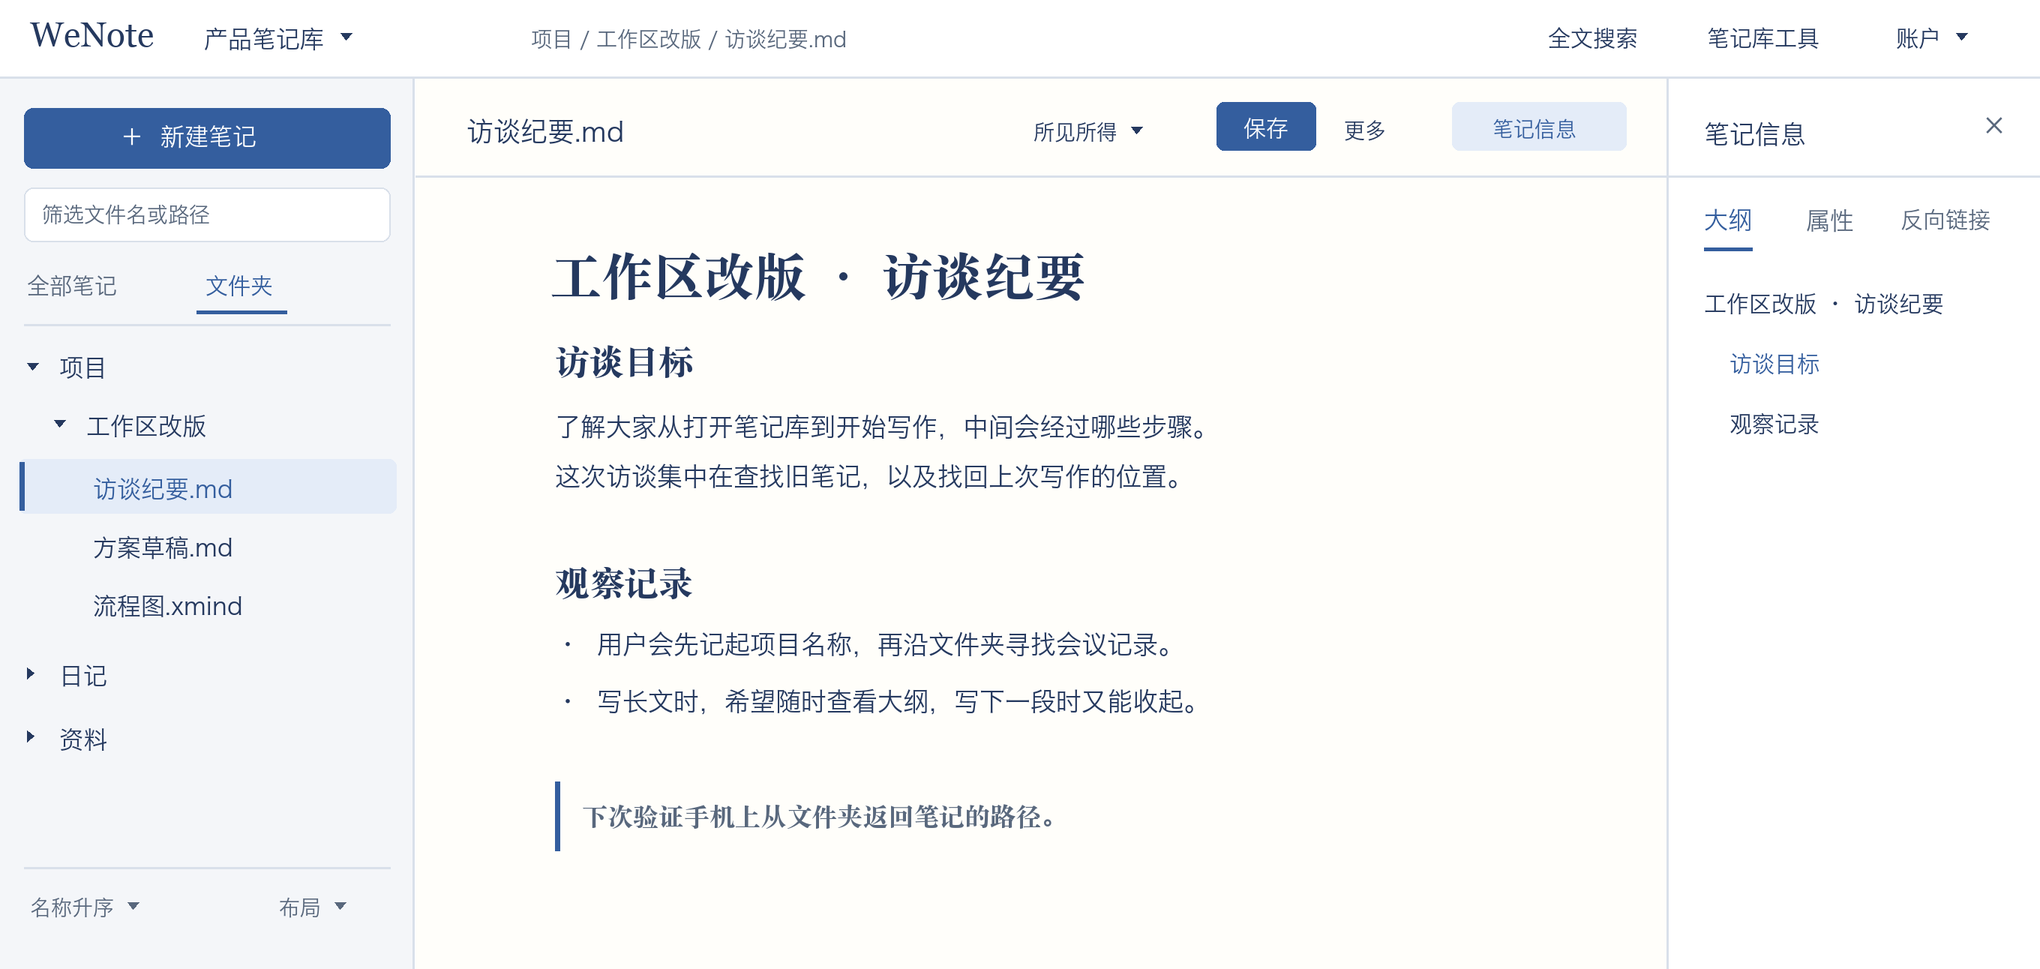
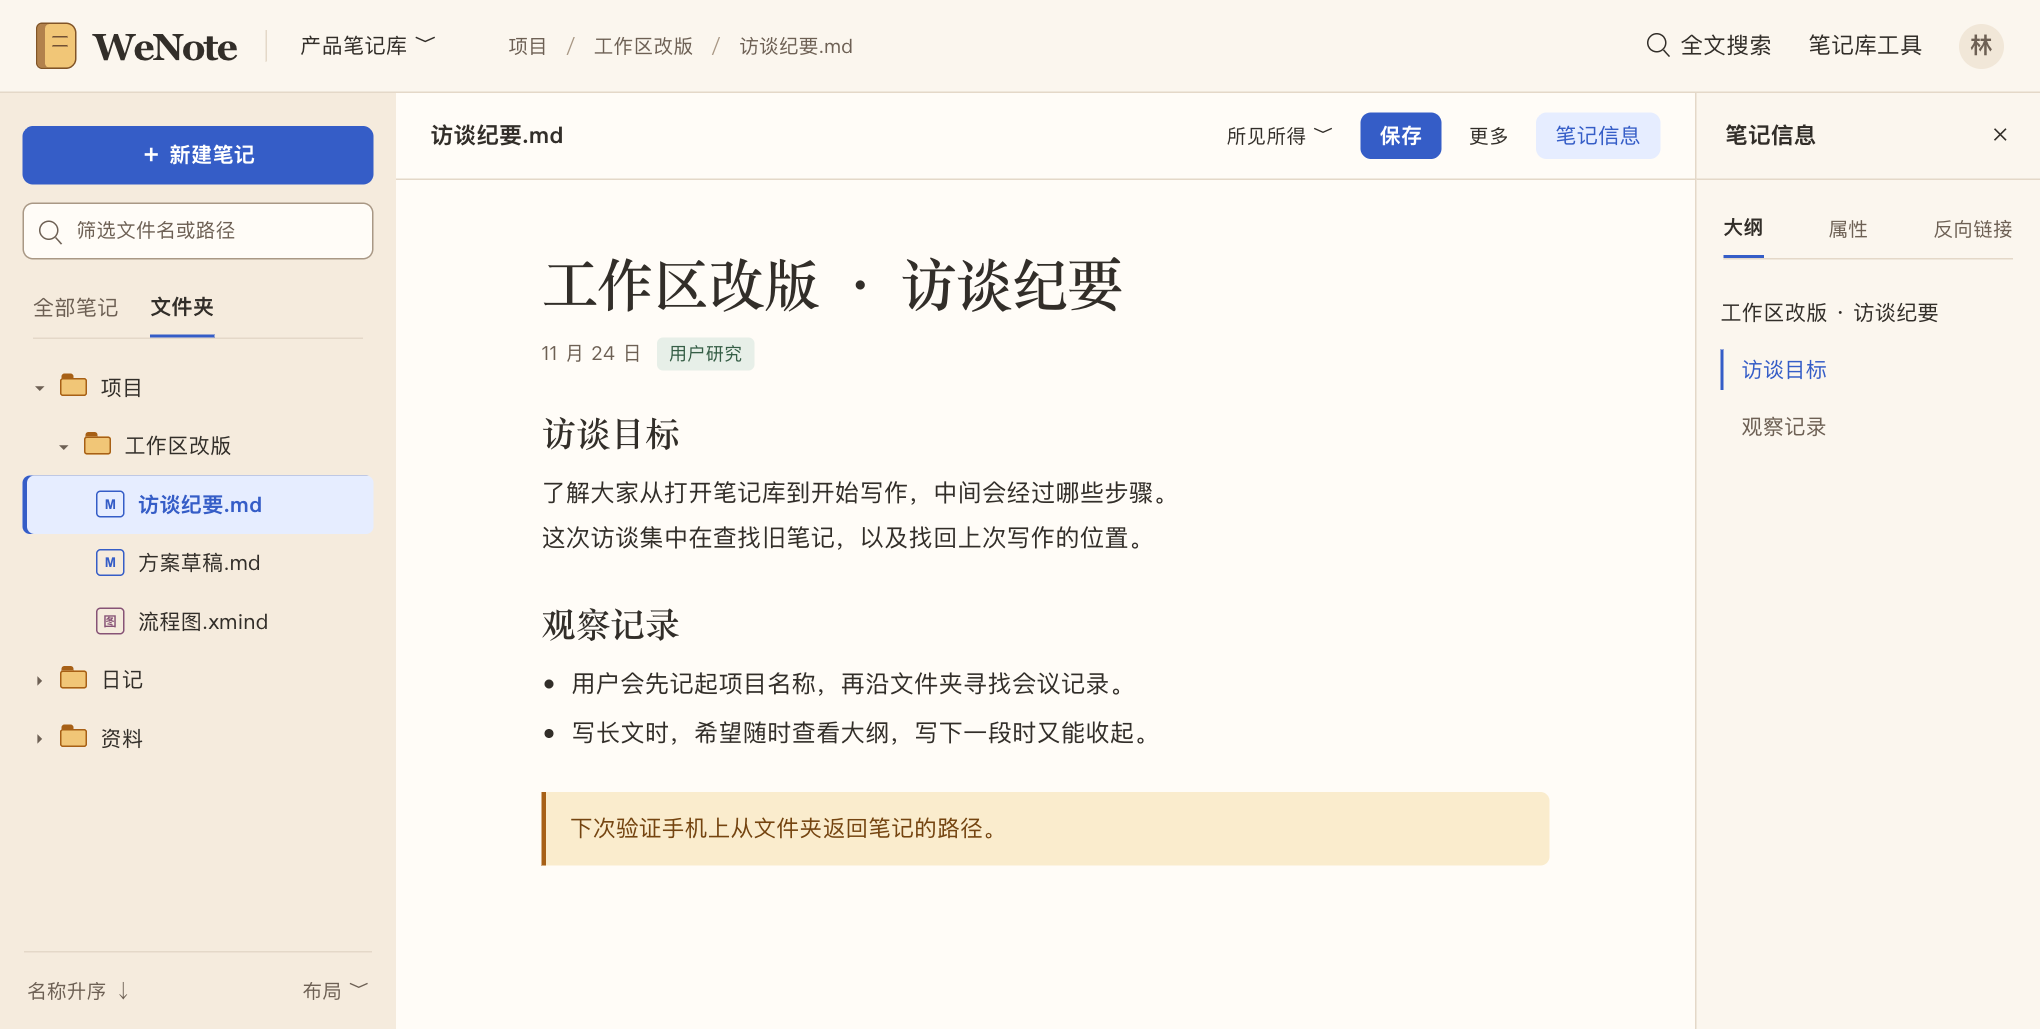
docs: warm the note workspace palette and illustrate night mode

diff --git a/docs/笔记工作区设计.md b/docs/笔记工作区设计.md
@@ -4,7 +4,7 @@
 
 建议桌面默认显示**文件导航和当前笔记**。找文件时，左侧可在「全部笔记」与「文件夹」之间切换。写长文时，点「笔记信息」查看大纲、属性或反向链接。手机每次显示一个主要任务，用户从列表打开正文，返回时回到刚才选中的那一行。
 
-本稿以本地 `main` 的 `722fae3` 为现状基线。两张图展示拟议界面，图中文字为示例笔记。默认布局、断点和面板尺寸是本轮评审建议值。
+本稿以本地 `main` 的 `722fae3` 为现状基线。三张图展示本轮拟议的日间、手机和夜间界面，图中文字为示例笔记。默认布局、断点和面板尺寸是本轮评审建议值。
 
 ## 1. 桌面上写一篇笔记
 
@@ -86,7 +86,30 @@
 
 ## 6. 视觉、键盘与触屏
 
-沿用 WeNote 已有的墨蓝、暖白纸面、冷灰侧栏和正文衬线字体。主界面沿用系统无衬线，源码区使用等宽字体。文件行选中时同时显示底色和边缘标记，键盘焦点用独立描边。夜间模式同时作用于壳层、CodeMirror、Markdown 预览、Mermaid 和 XMind，用同一篇含公式和图表的笔记检查切换效果。
+### 写作区的暖色主题
+
+有道云笔记 Mac 版的官方展示图把蓝色「新建」按钮放在文件列表上方，并用浅蓝色标出当前文件。展开菜单时，正文仍有独立的浅色背景。WeNote 借用这种区分动作、位置和内容的方式。针对初稿偏冷的问题，我们把占屏面积最大的颜色改为暖白和暖杏，给文件夹加上琥珀色轮廓。以下色值是 WeNote 的设计选择。[有道云笔记官方展示图（Mac App Store）](https://apps.apple.com/cn/app/id1600668116)
+
+| 用途 | 日间 | 夜间 | 放在界面哪里 |
+| --- | --- | --- | --- |
+| 纸面与正文 | 暖白 `#FFFCF7`、炭黑 `#322E29` | 深褐 `#25211E`、米白 `#F3EAE1` | 正文保持整片纸面。中文标题用宋体，界面标签用系统无衬线，源码用等宽字体 |
+| 文件导航与工具面板 | 暖杏 `#F5EBDD`、浅米 `#FBF6EE` | 棕灰 `#302A25`、深棕 `#2B2622` | 左栏颜色略重，右侧大纲、手机顶栏和底部面板用较轻的表面色 |
+| 次要文字与分隔线 | `#6D6054`、`#E4D8C8` | `#C5B5A5`、`#4B4037` | 路径、日期、排序说明使用次要文字，分隔线用于组织区域 |
+| 主操作与按钮文字 | 蓝 `#355DC7`、白 `#FFFFFF` | 浅蓝 `#A8C0FF`、深蓝黑 `#182443` | 新建、可用的保存按钮。手机正文里「完成」只用蓝色文字 |
+| 当前选中项 | 淡蓝底 `#E6EDFF`、蓝字 `#355DC7` | 靛灰底 `#313C58`、浅蓝字 `#A8C0FF` | 当前文件同时使用底色、左侧短线和字重。大纲仅标记当前标题 |
+| 文件夹、引用与标签 | 文件夹边 `#A76016`，引文底 `#FAECCD`、字 `#744410`，标签底 `#E7EFE8`、字 `#365E46` | 文件夹边 `#EDB86B`，引文底 `#433421`、字 `#F1C98C`，标签底 `#263F33`、字 `#B0D5BC` | 色彩集中于小图标、真实的 Markdown 引用和已有标签。空白笔记只显示标题与正文输入区 |
+
+![同一篇访谈纪要的夜间主题，深褐正文、棕灰侧栏和浅蓝色操作按钮。](assets/mantine-workspace/desktop-dark.png)
+
+*图 3 · 与图 1 的笔记和布局相同。夜间保留文件夹的琥珀色，用浅蓝按钮配深色文字。*
+
+**交互状态。** 鼠标悬停文件行时铺一层浅暖色，键盘焦点用 2 像素主色描边并留 2 像素间距。保存成功后按钮退为次要文字，显示「已保存到本地」或「已保存新版本」。失败提示用错误图标、原因和可执行的恢复动作。手机沿用相同颜色，底部操作栏取导航色，正文返回与更多菜单保持足够的触控面积。
+
+**接入方式。** 在 `MantineProvider` 下按浅深模式定义纸面、导航、面板、主文字、次文字、主操作和选中底色。将现有 `--paper`、`--rail`、`--ink`、`--muted`、`--accent`、`--tint` 映射到对应角色。Drawer 和菜单通过 Portal 也应获得同组值。CodeMirror 的底色跟随纸面，选区跟随选中底色。Mermaid 和 XMind 的默认主题随外观切换，并尊重用户已选的脑图主题。
+
+**可读性验收。** 按表中 sRGB 色值计算，正文与纸面的对比度为日间 13.17∶1、夜间 13.44∶1。主按钮文字为 5.93∶1、8.49∶1，选中文件名为 5.06∶1、6.07∶1。实施时还需在实际 WebView 中检查输入焦点、代码高亮、错误提示与系统字体放大后的效果。
+
+### 键盘与触屏
 
 - `Ctrl/⌘ + Shift + F` 延续现有行为，展开文件导航并聚焦路径筛选。`Ctrl/⌘ + S` 调用当前文档的保存。中文输入法正在组词时，Enter、方向键等交给输入控件。树节点与列表项都支持键盘到达、选择与展开。
 - 移动端行尾更多、返回、完成和底栏按钮至少提供 48 × 48 的触控区域。纵向拖动只滚列表，长按静止行才打开菜单。子菜单返回上一级，关闭后键盘焦点回到触发按钮。如果该行已删除，移到相邻行。
@@ -131,6 +154,6 @@
 | 格式和设备 | 轮流打开 TXT、Markdown、JSON、XMind，执行各自的保存或导出，并在另一设备同步后打开 | 模式与动作符合文件类型，JSON 可再次解析，XMind 可再次打开并保留修改，Android 导出进入系统保存流程 |
 | 独立入口 | 直接打开受密码保护的分享链接。解锁加密库、编辑、锁定，然后回普通库 | 访问按原权限校验。锁定后在普通导航、最近使用数据与屏幕上均找不到明文信息 |
 
-实施阶段可扩展现有 [条目菜单测试](../apps/web/tests/entry-menu.mjs)、[外观回归](../apps/web/tests/theme.mjs)、[Android 场景](../apps/web/tests/android.mjs)和[桌面端到端验收](../tests/e2e/desktop.mjs)。两端构建入口见[项目说明](../README.md)。以上为后续实现验收标准，本轮已交付的内容是设计稿及两张示意图。
+实施阶段可扩展现有 [条目菜单测试](../apps/web/tests/entry-menu.mjs)、[外观回归](../apps/web/tests/theme.mjs)、[Android 场景](../apps/web/tests/android.mjs)和[桌面端到端验收](../tests/e2e/desktop.mjs)。两端构建入口见[项目说明](../README.md)。以上为后续实现验收标准，本轮已交付的内容是设计稿及三张示意图。
 
-**本轮最值得先看的是图 1 的左栏。** 日常写作走合并导航，集中归档时才切换成目录与列表并列。如果你的主要习惯是一直开着目录整理文件，这一项可以直接改成桌面的默认布局，其他交互仍然成立。
+**本轮主题评审可对照图 1 和图 3。** 两图展示同一篇笔记，便于观察日夜两种模式下正文、当前文件和保存动作的层次。图 2 用于检查这些颜色在手机上的实际占比。

diff --git a/docs/tasks/DOCS-20261124-mantine-workspace.md b/docs/tasks/DOCS-20261124-mantine-workspace.md
@@ -6,7 +6,7 @@
 | 基线 | 本地 `main` · `722fae3` |
 | 分支 | `codex/docs-mantine-workspace-20261124` |
 | worktree | `.worktrees/mantine-workspace` |
-| 状态 | `DELIVERED` |
+| 状态 | `CHANGES_REQUESTED` |
 
 ## 需求与验收
 
@@ -24,3 +24,9 @@
 - 交付入口为[笔记工作区设计](../笔记工作区设计.md)。按本文前两节审阅桌面和手机流程，再核对跨端功能及验收场景。
 
 2026-11-24 `DELIVERED`。设计提交 `1acd78b` 已快进合入本地 `main`，`git merge-base --is-ancestor 1acd78b main` 退出 0。保留分支和 worktree 供用户评审及返工。
+
+## 第二轮 · 根据有道云笔记调整主题
+
+2026-11-24 `CHANGES_REQUESTED`。用户认为初稿色调冷清，要求参考有道云笔记重新设计主题。沿用原任务工作区，以 `1bb84ee` 为本轮基线。评审稿需给出参考依据、浅深色用途、桌面与手机视觉效果，并验证关键文字与交互状态的对比度。
+
+检查旧稿 `rg -q '暖杏' docs/笔记工作区设计.md` 退出 1。核对有道 Mac App Store 官方截图后重绘三张 WeNote 工作区示意图，分别展示桌面日间、手机流程、桌面夜间。自审核对两套主题的按钮前景色、选中项和文档所列色值，并逐张检查中文文字和面板边界。`python3 contrast.py` 退出 0，两套主题共 12 组前景背景对比均超过 4.5∶1。临时文档检查 `verify-theme.py` 退出 0，检查 8 节设计、18 个本地引用和 3 张 PNG。`git diff --check` 退出 0。

diff --git a/docs/开发账本.md b/docs/开发账本.md
@@ -10,7 +10,7 @@
 | `FEAT-20261123-date-hash-assets` | `feature` | 附件 URL 与 Blob 路径使用日期目录和内容哈希 | all | `MERGED` | `codex/feature-date-hash-assets-20261123` | `docs/tasks/FEAT-20261123-date-hash-assets.md` |
 | `FEAT-20261123-theme-toggle` | `feature` | 增加深浅色模式切换并适配 Markdown 与脑图主题 | web / desktop / android | `MERGED` | `codex/feature-theme-toggle-20261123` | [docs/tasks/FEAT-20261123-theme-toggle.md](tasks/FEAT-20261123-theme-toggle.md) |
 | `DOCS-20261123-review-before-merge` | `docs` | 自审后合入 main，保留 worktree 验收 | 开发流程 | `DELIVERED` | `codex/docs-review-before-merge-20261123` | [任务记录](tasks/DOCS-20261123-review-before-merge.md) |
-| `DOCS-20261124-mantine-workspace` | `docs` | 设计 Mantine AppShell 笔记工作区及跨端交互 | web / desktop / android | `DELIVERED` | `codex/docs-mantine-workspace-20261124` | [任务记录](tasks/DOCS-20261124-mantine-workspace.md) |
+| `DOCS-20261124-mantine-workspace` | `docs` | 设计 Mantine AppShell 笔记工作区及跨端交互 | web / desktop / android | `CHANGES_REQUESTED` | `codex/docs-mantine-workspace-20261124` | [任务记录](tasks/DOCS-20261124-mantine-workspace.md) |
 
 ## 分类
 
